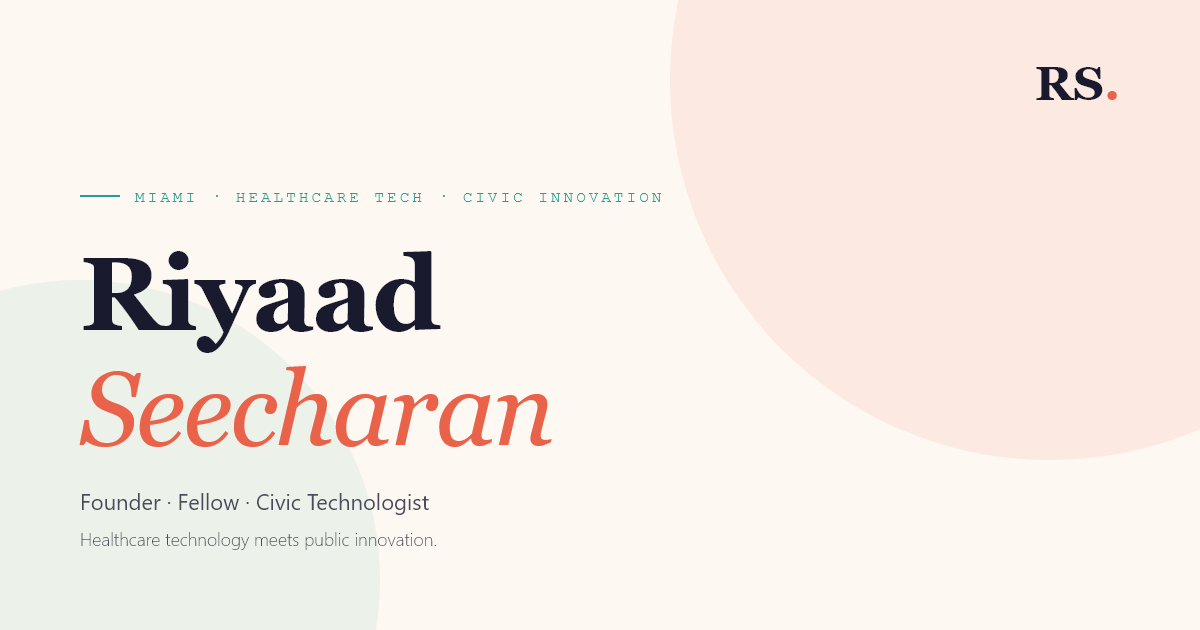
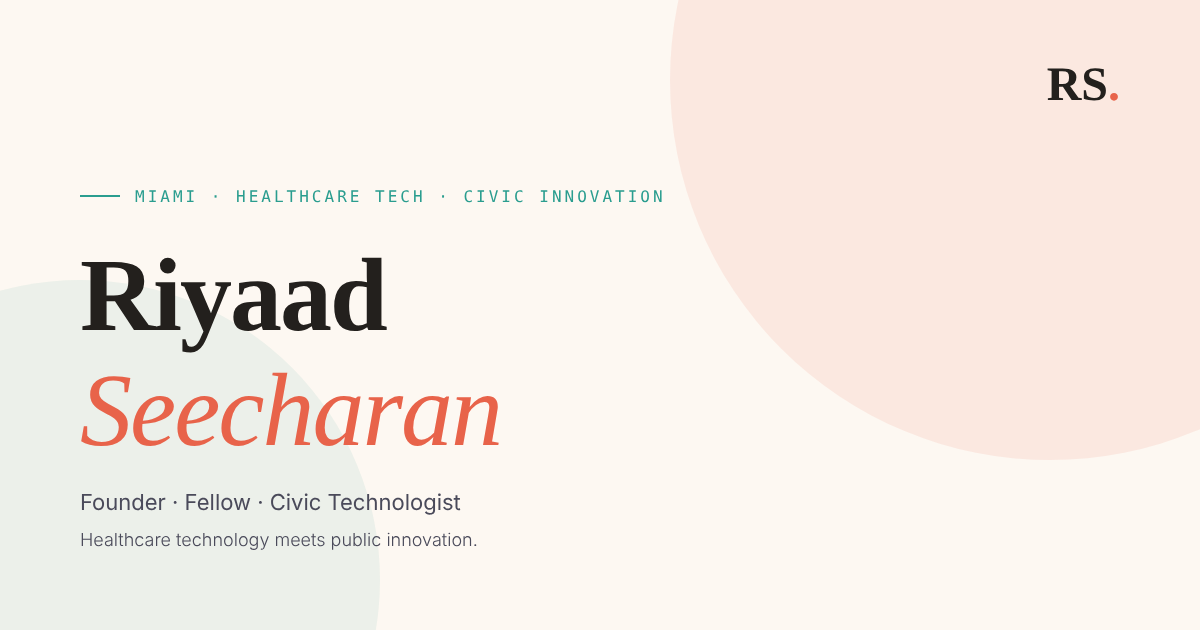
Replace navy with warm charcoal across the site
Claude-Session: https://claude.ai/code/session_01GzwcSThfeQGUE26zzMs5Qi

diff --git a/index.html b/index.html
@@ -154,7 +154,7 @@
     --coral: #E8634A;
     --coral-text: #C0432B;
     --sand: #F5EDE3;
-    --deep: #1A1A2E;
+    --deep: #23201D;
     --teal: #1F7268;
     --gold: #E9C46A;
     --cream: #FDF8F2;
@@ -233,7 +233,7 @@
     z-index: 100;
     backdrop-filter: blur(12px);
     background: rgba(253, 248, 242, 0.85);
-    border-bottom: 1px solid rgba(26, 26, 46, 0.06);
+    border-bottom: 1px solid rgba(35, 32, 29, 0.06);
   }
 
   nav .logo {
@@ -364,7 +364,7 @@
 
   .orbit-ring {
     position: absolute;
-    border: 1.5px solid rgba(26, 26, 46, 0.08);
+    border: 1.5px solid rgba(35, 32, 29, 0.08);
     border-radius: 50%;
     animation: spin 30s linear infinite;
   }
@@ -641,13 +641,13 @@
     padding: 2.5rem;
     position: relative;
     overflow: hidden;
-    border: 1px solid rgba(26, 26, 46, 0.06);
+    border: 1px solid rgba(35, 32, 29, 0.06);
     transition: all 0.4s;
   }
 
   .venture-card:hover {
     transform: translateY(-6px);
-    box-shadow: 0 20px 50px rgba(26, 26, 46, 0.08);
+    box-shadow: 0 20px 50px rgba(35, 32, 29, 0.08);
   }
 
   .venture-card::after {
@@ -683,7 +683,7 @@
   .venture-card:nth-child(1) .v-icon { background: rgba(232,99,74,0.1); color: var(--coral); }
   .venture-card:nth-child(2) .v-icon { background: rgba(31,114,104,0.12); color: var(--teal); }
   .venture-card:nth-child(3) .v-icon { background: rgba(233,196,106,0.18); color: #8B6914; }
-  .venture-card:nth-child(4) .v-icon { background: rgba(26,26,46,0.08); color: var(--deep); }
+  .venture-card:nth-child(4) .v-icon { background: rgba(35,32,29,0.08); color: var(--deep); }
 
   .venture-card .app-logo {
     height: 80px;
@@ -727,7 +727,7 @@
   .venture-card .app-acquirer {
     margin-top: 1.25rem;
     padding-top: 1rem;
-    border-top: 1px solid rgba(26, 26, 46, 0.08);
+    border-top: 1px solid rgba(35, 32, 29, 0.08);
     font-size: 0.95rem;
     font-weight: 600;
   }
@@ -935,7 +935,7 @@
   .contact-btn.secondary {
     background: transparent;
     color: var(--deep);
-    border: 1.5px solid rgba(26, 26, 46, 0.18);
+    border: 1.5px solid rgba(35, 32, 29, 0.18);
   }
 
   .contact-btn.secondary:hover {
@@ -948,7 +948,7 @@
     display: flex;
     justify-content: space-between;
     align-items: center;
-    border-top: 1px solid rgba(26,26,46,0.08);
+    border-top: 1px solid rgba(35,32,29,0.08);
     flex-wrap: wrap;
     gap: 1rem;
   }

diff --git a/README.md b/README.md
@@ -26,7 +26,7 @@ To preview locally, just open `index.html` in a browser. No server required.
 ├── index.html          # Entire site (HTML + CSS + JS)
 ├── README.md           # This file
 ├── CNAME               # GitHub Pages custom domain pointer
-├── favicon.svg         # Browser tab icon (RS. monogram, deep navy + coral)
+├── favicon.svg         # Browser tab icon (RS. monogram, warm charcoal + coral)
 ├── og-image.svg        # Source for social preview (design-of-record)
 ├── og-image.png        # 1200×630 PNG used by og:image (LinkedIn, X, iMessage)
 ├── robots.txt          # Allow all + sitemap pointer
@@ -52,7 +52,7 @@ npx --yes svgexport og-image.svg og-image.png 1200:630
 | `--teal` | `#1F7268` | Secondary accent + small text (passes AA on cream) |
 | `--gold` | `#E9C46A` | Decorative only on light bgs; text only on `--deep` |
 | `--blush` | `#F4A89A` | Tertiary decoration |
-| `--deep` | `#1A1A2E` | Headlines, dark sections |
+| `--deep` | `#23201D` | Headlines, dark sections |
 | `--cream` | `#FDF8F2` | Default page background |
 | `--sand` | `#F5EDE3` | Alternate section background |
 | `--slate` | `#4A4A5A` | Body text |
@@ -152,7 +152,7 @@ Every dated/factual claim on the site, in one place. When facts change, update b
 | Email (obfuscated) | `riyaad` `@` `seecharan` `.com` — assembled at runtime |
 | LinkedIn | https://www.linkedin.com/in/riyaadseecharan/ |
 | Location | Miami, Florida (Caribbean / Trinidad & Tobago family ties) |
-| Logo | `RS.` (deep navy + coral period) |
+| Logo | `RS.` (warm charcoal + coral period) |
 
 ### Timeline (Arc section)
 
@@ -241,7 +241,7 @@ Comprehensive review across SEO, accessibility, narrative, content, brand, front
 
 ### Files added
 
-- `favicon.svg` — RS. monogram (deep navy + coral period)
+- `favicon.svg` — RS. monogram (warm charcoal + coral period)
 - `og-image.svg` — Design source for the social preview
 - `og-image.png` — 1200×630 PNG referenced by `og:image` (rendered via `npx svgexport`)
 - `robots.txt` — Allow all + sitemap pointer
